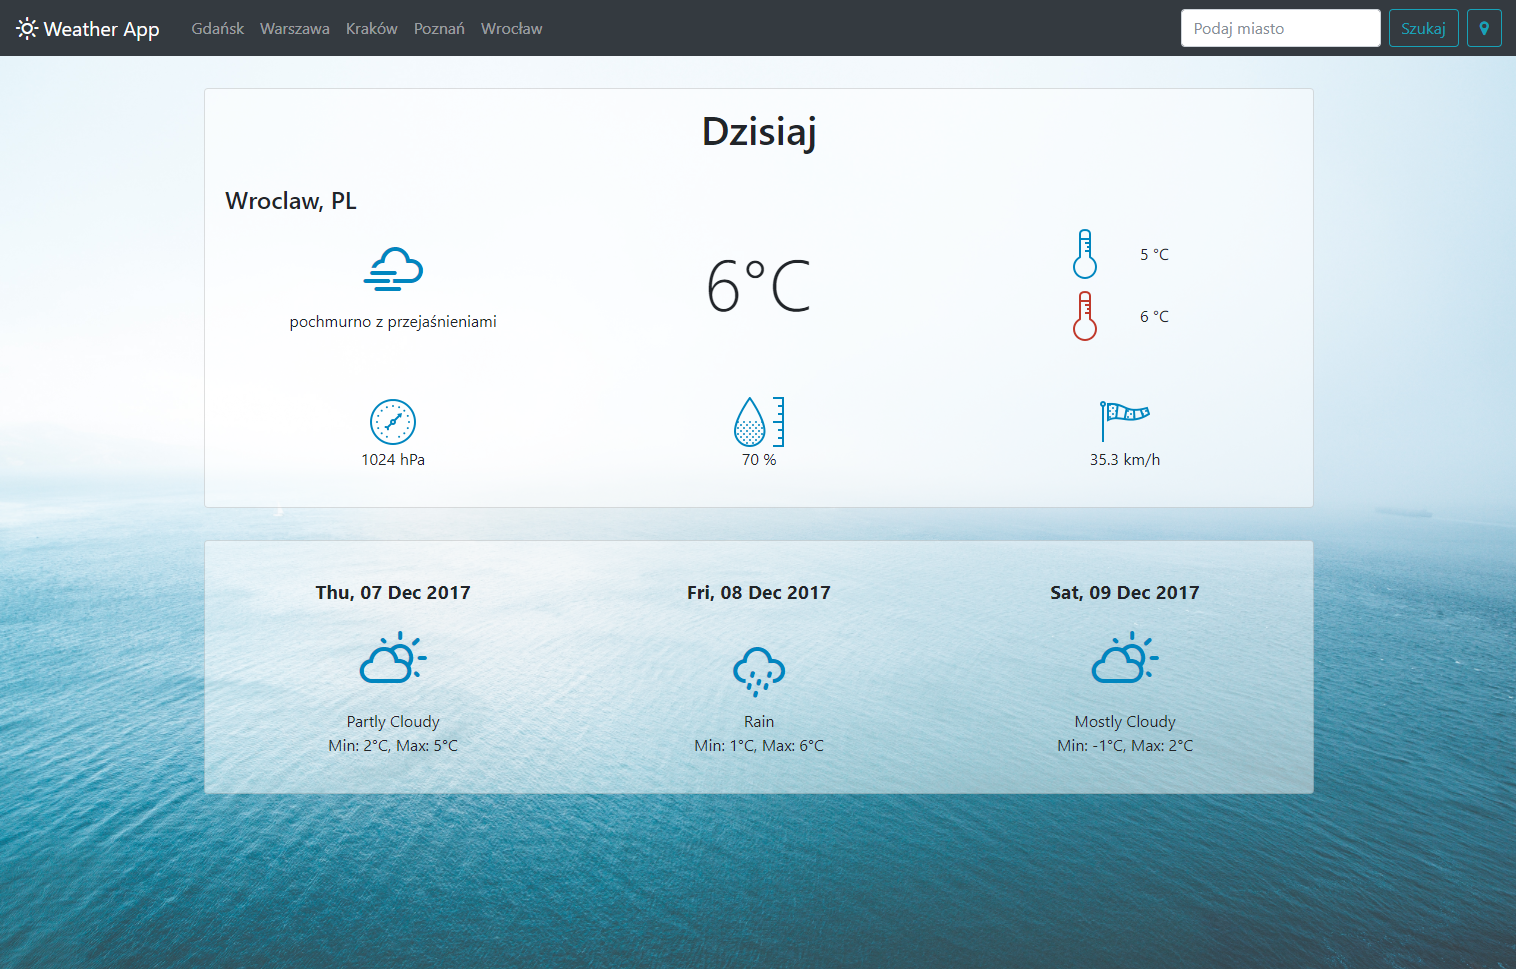
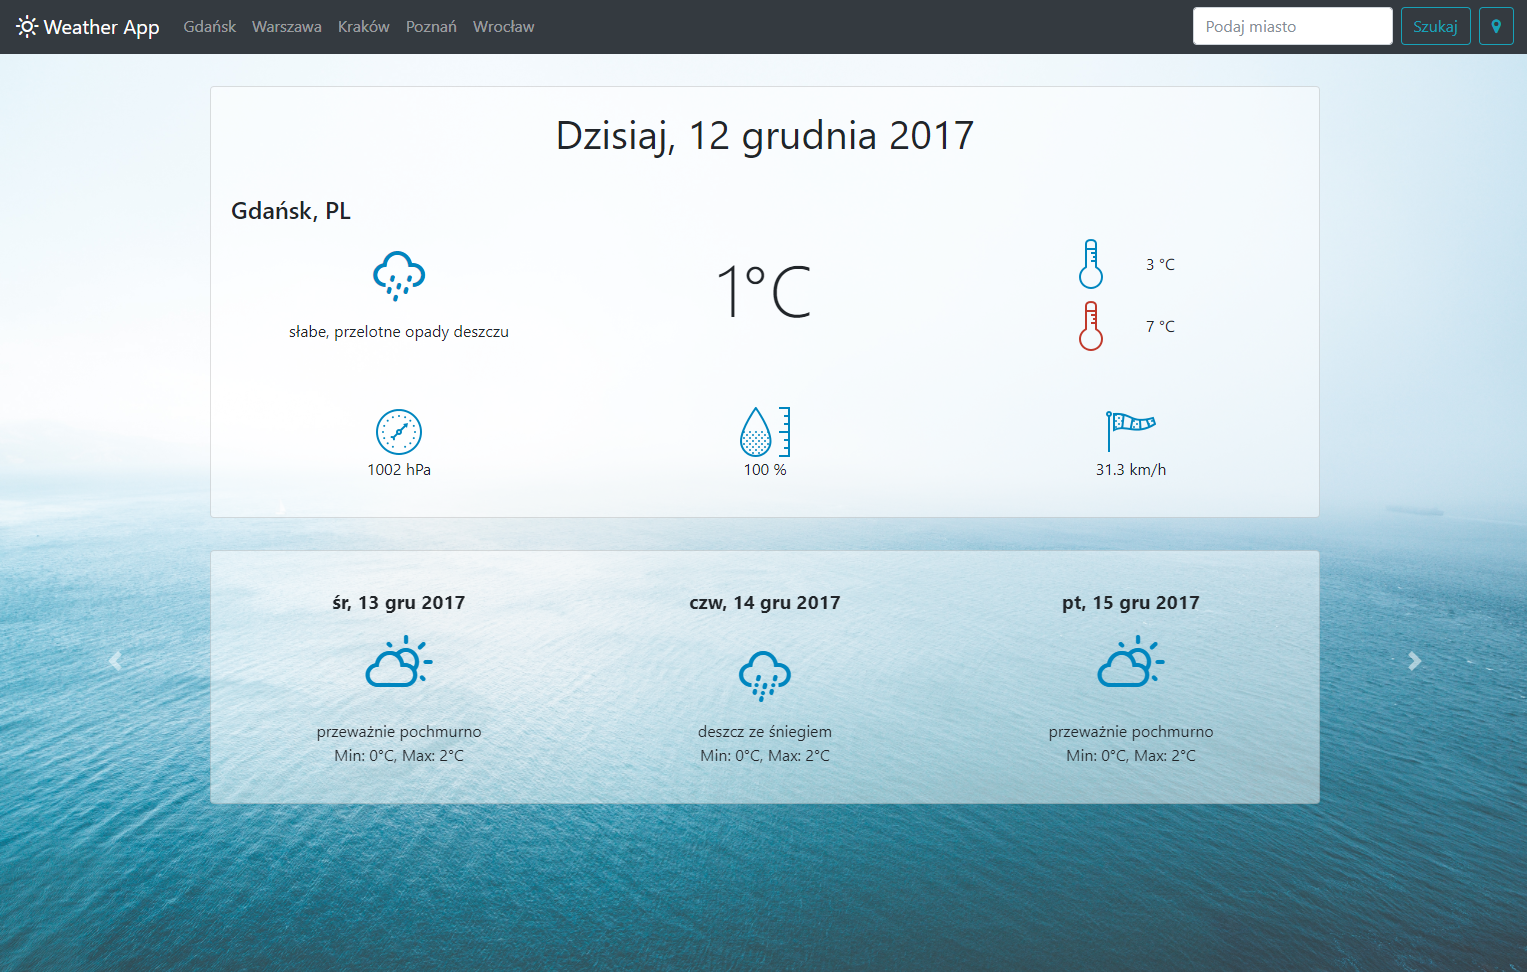
Added translation of weather condition into polish language
updated screenshot, shortened the way of weather forecast display

diff --git a/assets/js/script.js b/assets/js/script.js
@@ -69,7 +69,7 @@ function getWeather(provider, apiUrl) {
 
                 $(".card-title").html("Dzisiaj, " + moment().locale('pl').format('LL'));
 
-                $("#iconCode").html("<img class='wi wi-owm-" + iconCode + "' alt=' '>");
+                $("#iconCode").html("<i class='wi wi-owm-" + iconCode + "'></i>");
                 $("#description").html(description);
                 $("#cityName").html(city + ", " + country);
                 $("#temperature").html(tempC + "°C");
@@ -80,53 +80,30 @@ function getWeather(provider, apiUrl) {
             break;
         case 'yahoo':
             $.getJSON(apiUrl, function(data) {
-                var tempMinCurrentC = data.query.results.channel.item.forecast[0].low;
-                var tempMaxCurrentC = data.query.results.channel.item.forecast[0].high;
+                var forecast = data.query.results.channel.item.forecast;
 
-                $("#tempMinC").html(tempMinCurrentC + " &#8451;");
-                $("#tempMaxC").html(tempMaxCurrentC + " &#8451;");
+                forecast.forEach(function(forecastDay, index) {
+                    if (index === 0) {
+                        var tempMinCurrentC = forecast[0].low;
+                        var tempMaxCurrentC = forecast[0].high;
 
-                for (var i = 1; i <= 6; i++) {
-                    var date = data.query.results.channel.item.forecast[i].date;
-                    var day = data.query.results.channel.item.forecast[i].day;
-                    var code = data.query.results.channel.item.forecast[i].code;
-                    var text = data.query.results.channel.item.forecast[i].text;
-                    var tempMinC = data.query.results.channel.item.forecast[i].low;
-                    var tempMaxC = data.query.results.channel.item.forecast[i].high;
+                        $("#tempMinC").html(tempMinCurrentC + " &#8451;");
+                        $("#tempMaxC").html(tempMaxCurrentC + " &#8451;");
+                    } else {
+                        var day = index;
+                        var date = forecastDay.date;
+                        var imageCode = forecastDay.code;
+                        var text = forecastDay.text;
+                        var tempMinC = forecastDay.low;
+                        var tempMaxC = forecastDay.high;
 
-                    switch (i) {
-                        case 1:
-                            $('#day1').html(moment().locale('pl').add(1, 'days').format('ddd') + ', ' + moment().locale('pl').add(1, 'days').format('ll'));
-                            $('#weatherIcon1').html("<img class='wi wi-yahoo-" + code + "' alt=' '>");
-                            $('.tomorrow').html(text + "<br />Min: " + tempMinC + "°C, Max: " + tempMaxC + "°C");
-                            break;
-                        case 2:
-                            $('#day2').html(moment().locale('pl').add(2, 'days').format('ddd') + ', ' + moment().locale('pl').add(2, 'days').format('ll'));
-                            $('#weatherIcon2').html("<img class='wi wi-yahoo-" + code + "' alt=' '>");
-                            $('.overmorrow').html(text + "<br />Min: " + tempMinC + "°C, Max: " + tempMaxC + "°C");
-                            break;
-                        case 3:
-                            $('#day3').html(moment().locale('pl').add(3, 'days').format('ddd') + ', ' + moment().locale('pl').add(3, 'days').format('ll'));
-                            $('#weatherIcon3').html("<img class='wi wi-yahoo-" + code + "' alt=' '>");
-                            $('.dayAfterOvermorrow').html(text + "<br />Min: " + tempMinC + "°C, Max: " + tempMaxC + "°C");
-                            break;
-                        case 4:
-                            $('#day4').html(moment().locale('pl').add(4, 'days').format('ddd') + ', ' + moment().locale('pl').add(4, 'days').format('ll'));
-                            $('#weatherIcon4').html("<img class='wi wi-yahoo-" + code + "' alt=' '>");
-                            $('.tomorrow').html(text + "<br />Min: " + tempMinC + "°C, Max: " + tempMaxC + "°C");
-                            break;
-                        case 5:
-                            $('#day5').html(moment().locale('pl').add(5, 'days').format('ddd') + ', ' + moment().locale('pl').add(5, 'days').format('ll'));
-                            $('#weatherIcon5').html("<img class='wi wi-yahoo-" + code + "' alt=' '>");
-                            $('.overmorrow').html(text + "<br />Min: " + tempMinC + "°C, Max: " + tempMaxC + "°C");
-                            break;
-                        case 6:
-                            $('#day6').html(moment().locale('pl').add(6, 'days').format('ddd') + ', ' + moment().locale('pl').add(6, 'days').format('ll'));
-                            $('#weatherIcon6').html("<img class='wi wi-yahoo-" + code + "' alt=' '>");
-                            $('.dayAfterOvermorrow').html(text + "<br />Min: " + tempMinC + "°C, Max: " + tempMaxC + "°C");
-                            break;
+                        var convertedText = translate(text);
+
+                        $('#day' + day).html(moment().locale('pl').add(day, 'days').format('ddd') + ', ' + moment().locale('pl').add(day, 'days').format('ll'));
+                        $('#weatherIcon' + day).html('<i class="wi wi-yahoo-' + imageCode + '"></i>');
+                        $('.forecastDay' + day).html(convertedText + "<br />Min: " + tempMinC + "°C, Max: " + tempMaxC + "°C");
                     }
-                }
+                });
             });
             break;
     }
@@ -134,4 +111,129 @@ function getWeather(provider, apiUrl) {
 
 function convertVelocity(wind) {
     return wind * 3600 / 1000;
+}
+
+var weatherStatusesEN = [
+    "Tornado",
+    "Tropical Storm",
+    "Hurricane",
+    "Severe Thunderstorms",
+    "Thunderstorms",
+    "Mixed Rain And Snow",
+    "Mixed Rain And Sleet",
+    "Mixed Snow And Sleet",
+    "Freezing Drizzle",
+    "Drizzle",
+    "Freezing Rain",
+    "Showers",
+    "Snow Flurries",
+    "Light Cnow Showers",
+    "Blowing Cnow",
+    "Snow",
+    "Hail",
+    "Sleet",
+    "Dust",
+    "Foggy",
+    "Haze",
+    "Smoky",
+    "Blustery",
+    "Windy",
+    "Cold",
+    "Cloudy",
+    "Mostly Cloudy",
+    "Partly Cloudy",
+    "Clear",
+    "Sunny",
+    "Fair",
+    "Mixed Rain And Hail",
+    "Hot",
+    "Isolated Thunderstorms",
+    "Scattered Thunderstorms",
+    "Scattered Showers",
+    "Heavy Snow",
+    "Scattered Snow Showers",
+    "Partly Cloudy",
+    "Thundershowers",
+    "Snow Showers",
+    "Isolated Thundershowers",
+    "Rain And Snow",
+    "Partialy Cloud",
+    "AM Showers",
+    "PM Showers",
+    "PM Thunderstorms",
+    "Light Rain with Thunder",
+    "Heavy Rain",
+    "Mostly Sunny",
+    "Light Rain",
+    "AM Rain",
+    "PM Rain",
+    "Heavy Thunderstorms",
+    "Rain",
+    "Breezy"
+];
+var weatherStatusesPL = [
+    "tornado",
+    "burza tropikalna",
+    "huragan",
+    "ostre burze z piorunami",
+    "burze z piorunami",
+    "deszcz ze śniegiem",
+    "deszcz i deszcz ze śniegiem",
+    "śnieg i deszcz ze śniegiem",
+    "marznąca mżawka",
+    "mżawka",
+    "marznący deszcz",
+    "ulewa",
+    "zawieja śnieżna",
+    "lekkie opady śniegu",
+    "podmuchy śniegu",
+    "śnieg",
+    "grad",
+    "śnieg z deszczem",
+    "kurz",
+    "mgliście",
+    "mgła",
+    "smog",
+    "przenikliwie zimno?",
+    "wietrznie",
+    "zimno",
+    "całkowite zachmurzenie",
+    "przeważnie pochmurno",
+    "częściowe zachmurzenie",
+    "bezchmurnie",
+    "słonecznie",
+    "fair",
+    "deszcz z gradem",
+    "upał",
+    "przelotne burze z piorunami",
+    "lekki deszcz z piorunami",
+    "słabe, przelotne opady deszczu",
+    "obfite opady śniegu",
+    "rozproszone opady śniegu",
+    "częściowe zachmurzenie",
+    "burze z piorunami",
+    "opady śniegu",
+    "pojedyncze burze",
+    "deszcz ze śniegiem",
+    "rozproszone chmury",
+    "ulewa",
+    "ulewa",
+    "burze z piorunami",
+    "lekki deszcz z piorunami",
+    "ulewa",
+    "przeważnie słonecznie",
+    "lekki deszcz",
+    "deszcz",
+    "deszcz",
+    "ciężkie burze z piorunami",
+    "deszcz",
+    "wietrznie"
+];
+
+function translate(text) {
+    var index = weatherStatusesEN.indexOf(text);
+
+    if (index !== -1) {
+        return weatherStatusesPL[index];
+    }
 }

diff --git a/index.html b/index.html
@@ -16,7 +16,6 @@
         <link rel="stylesheet" href="libs/weather-icons-master/css/weather-icons.min.css">
         <link rel="stylesheet" href="libs/weather-icons-master/css/weather-icons-wind.min.css">
         <link rel="stylesheet" type="text/css" href="assets/css/style.css">
-        <link rel="stylesheet" href="libs/font-awesome-4.7.0/css/font-awesome.min.css">
     </head>
 
     <body>
@@ -24,7 +23,7 @@
         <div class="content">
             <nav class="navbar navbar-expand-lg navbar-dark bg-dark">
                 <a class="navbar-brand" href="#">
-                    <i class="wi wi-day-sunny"></i> 
+                    <i class="wi wi-day-sunny"></i>
                     Weather App
                 </a>
                 <button class="navbar-toggler" type="button" data-toggle="collapse" data-target="#navbarSupportedContent" aria-controls="navbarSupportedContent" aria-expanded="false" aria-label="Toggle navigation">
@@ -34,16 +33,16 @@
                 <div class="collapse navbar-collapse" id="navbarSupportedContent">
                     <ul class="navbar-nav mr-auto">
                         <li class="nav-item">
-                            <a class="nav-link cityName" href="#" id="gdansk">Gdańsk</a>
+                            <a class="nav-link cityName" href="#" id="gdańsk">Gdańsk</a>
                         </li>
                         <li class="nav-item">
-                            <a class="nav-link cityName" href="#" id="warsaw">Warszawa</a>
+                            <a class="nav-link cityName" href="#" id="warszawa">Warszawa</a>
                         </li>
                         <li class="nav-item">
                             <a class="nav-link cityName" href="#" id="krakow">Kraków</a>
                         </li>
                         <li class="nav-item">
-                            <a class="nav-link cityName" href="#" id="poznan">Poznań</a>
+                            <a class="nav-link cityName" href="#" id="poznań">Poznań</a>
                         </li>
                         <li class="nav-item">
                             <a class="nav-link cityName" href="#" id="wroclaw">Wrocław</a>
@@ -73,7 +72,7 @@
                             </div>
                             <div class="row align-items-center">
                                 <div class="col-4 center">
-                                    <p class="weatherIcon" id=iconCode></p>
+                                    <p class="weatherIcon" id="iconCode"></p>
                                     <p id="description"></p>
                                 </div>
                                 <div class="col-4 center">
@@ -126,17 +125,17 @@
                                         <div class="col-4">
                                             <p class="day" id="day1"></p>
                                             <p class="weatherIcon" id="weatherIcon1"></p>
-                                            <p class="tomorrow"></p>
+                                            <p class="forecastDay1"></p>
                                         </div>
                                         <div class="col-4">
                                             <p class="day" id="day2"></p>
                                             <p class="weatherIcon" id="weatherIcon2"></p>
-                                            <p class="overmorrow"></p>
+                                            <p class="forecastDay2"></p>
                                         </div>
                                         <div class="col-4">
                                             <p class="day" id="day3"></p>
                                             <p class="weatherIcon" id="weatherIcon3"></p>
-                                            <p class="dayAfterOvermorrow"></p>
+                                            <p class="forecastDay3"></p>
                                         </div>
                                     </div>
                                 </div>
@@ -151,17 +150,17 @@
                                         <div class="col-4">
                                             <p class="day" id="day4"></p>
                                             <p class="weatherIcon" id="weatherIcon4"></p>
-                                            <p class="tomorrow"></p>
+                                            <p class="forecastDay4"></p>
                                         </div>
                                         <div class="col-4">
                                             <p class="day" id="day5"></p>
                                             <p class="weatherIcon" id="weatherIcon5"></p>
-                                            <p class="overmorrow"></p>
+                                            <p class="forecastDay5"></p>
                                         </div>
                                         <div class="col-4">
                                             <p class="day" id="day6"></p>
                                             <p class="weatherIcon" id="weatherIcon6"></p>
-                                            <p class="dayAfterOvermorrow"></p>
+                                            <p class="forecastDay6"></p>
                                         </div>
                                     </div>
                                 </div>
